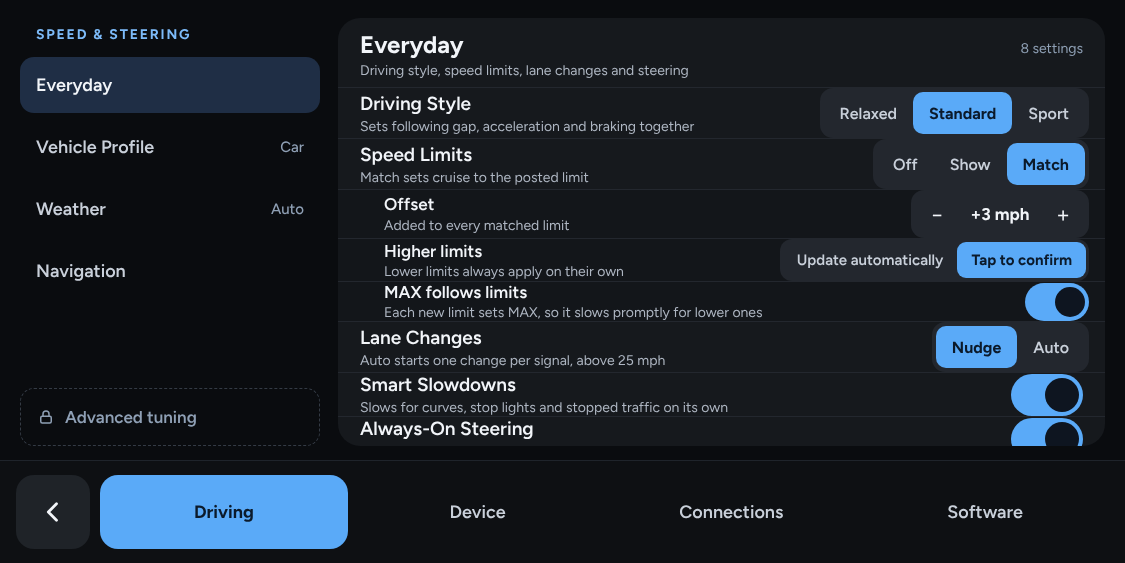
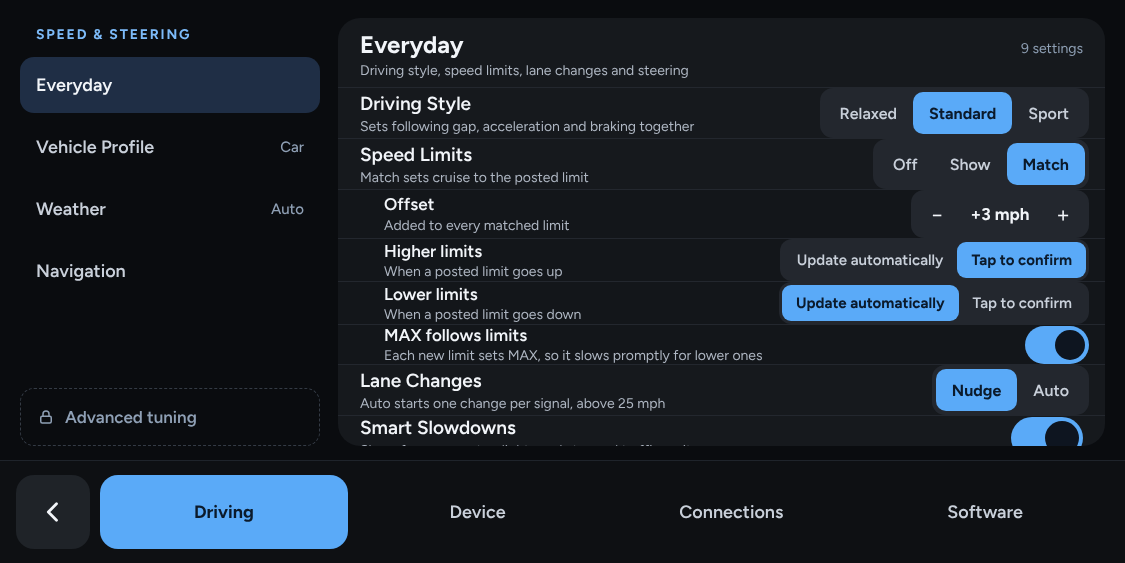
Speed limits: ask for lower limits too, if set
Lower limits joins Higher limits under Match, each Update automatically
or Tap to confirm (StarPilot's Confirm Higher and Confirm Lower). The
new-limit card offers lower limits as Slow down to. Lower limits still
apply on their own by default.

Claude-Session: https://claude.ai/code/session_01R4pPc2hcx88Dbjjec1p8WC

Changed region(s): [[0.3111, 0.4529, 0.9644, 0.7851]]

diff --git a/selfdrive/ui/tandem/design/driving.html b/selfdrive/ui/tandem/design/driving.html
@@ -31,7 +31,7 @@ a{color:#5AAAF8}a:hover{color:#8CC4FA}
     <div style="flex-grow: 1; min-width: 0; background: #16191D; border-radius: 22px; display: flex; flex-direction: column; overflow: hidden;">
       <div style="padding: 12px 22px 8px; border-bottom: 1px solid #23272E; display: flex; align-items: baseline; justify-content: space-between;">
         <div style="display: flex; flex-direction: column; gap: 3px;"><h2 style="margin: 0; font-size: 24px; font-weight: 700;">Everyday</h2><span style="font-size: 14px; color: #AEB6C2;">Driving style, speed limits, lane changes and steering</span></div>
-        <span style="font-size: 14px; color: #8FA0B5;">8 settings</span>
+        <span style="font-size: 14px; color: #8FA0B5;">9 settings</span>
       </div>
       <div style="display: flex; align-items: center; gap: 16px; padding: 0 16px 0 22px; height: 54px; border-bottom: 1px solid #23272E;">
         <div style="flex-grow: 1; display: flex; flex-direction: column; gap: 3px; min-width: 0;">
@@ -69,11 +69,21 @@ a{color:#5AAAF8}a:hover{color:#8CC4FA}
       <div style="display: flex; align-items: center; gap: 16px; padding: 0 16px 0 46px; height: 48px; border-bottom: 1px solid #23272E; background: #13161A;">
         <div style="flex-grow: 1; display: flex; flex-direction: column; gap: 2px; min-width: 0;">
           <span style="font-size: 17px; font-weight: 600;">Higher limits</span>
-          <span style="font-size: 14px; color: #AEB6C2;">Lower limits always apply on their own</span>
+          <span style="font-size: 14px; color: #AEB6C2;">When a posted limit goes up</span>
         </div>
         <div role="radiogroup" aria-label="Higher limits" style="display: flex; background: #23272E; border-radius: 12px; padding: 3px;">
           <button type="button" role="radio" aria-checked="false" style="font-family: inherit; border: 0; background: transparent; color: #C9D0DA; height: 36px; padding: 0 14px; border-radius: 9px; font-size: 15px; font-weight: 600;">Update automatically</button>
           <button type="button" role="radio" aria-checked="true" style="font-family: inherit; border: 0; background: #5AAAF8; color: #0B1A2B; height: 36px; padding: 0 14px; border-radius: 9px; font-size: 15px; font-weight: 700;">Tap to confirm</button>
+        </div>
+      </div>
+      <div style="display: flex; align-items: center; gap: 16px; padding: 0 16px 0 46px; height: 48px; border-bottom: 1px solid #23272E; background: #13161A;">
+        <div style="flex-grow: 1; display: flex; flex-direction: column; gap: 2px; min-width: 0;">
+          <span style="font-size: 17px; font-weight: 600;">Lower limits</span>
+          <span style="font-size: 14px; color: #AEB6C2;">When a posted limit goes down</span>
+        </div>
+        <div role="radiogroup" aria-label="Lower limits" style="display: flex; background: #23272E; border-radius: 12px; padding: 3px;">
+          <button type="button" role="radio" aria-checked="true" style="font-family: inherit; border: 0; background: #5AAAF8; color: #0B1A2B; height: 36px; padding: 0 14px; border-radius: 9px; font-size: 15px; font-weight: 700;">Update automatically</button>
+          <button type="button" role="radio" aria-checked="false" style="font-family: inherit; border: 0; background: transparent; color: #C9D0DA; height: 36px; padding: 0 14px; border-radius: 9px; font-size: 15px; font-weight: 600;">Tap to confirm</button>
         </div>
       </div>
       <div style="display: flex; align-items: center; gap: 16px; padding: 0 16px 0 46px; height: 48px; border-bottom: 1px solid #23272E; background: #13161A;">

diff --git a/selfdrive/ui/tandem/design/confirmlimit.html b/selfdrive/ui/tandem/design/confirmlimit.html
@@ -62,7 +62,7 @@ a{color:#7DBBF9}a:hover{color:#A9D3FB}
         </div>
         <button type="button" aria-label="Raise max speed" style="font-family: inherit; width: 52px; height: 62px; border: 0; background: transparent; color: #F2F5F9; font-size: 28px;">+</button>
       </div>
-      <span style="flex-grow: 1; font-size: 15px; color: #8FA0B5; padding-left: 8px;">Lower limits apply without asking. Resume on the wheel also matches.</span>
+      <span style="flex-grow: 1; font-size: 15px; color: #8FA0B5; padding-left: 8px;">Asks for higher or lower limits, as set in Speed Limits. A lower one asks “Slow down to 48 mph?”. Resume on the wheel also matches.</span>
       <button type="button" aria-label="Disengage" style="width: 74px; height: 74px; border-radius: 18px; border: 0; background: #1F9A55; display: flex; align-items: center; justify-content: center;"><svg width="32" height="32" viewBox="0 0 24 24" fill="none" stroke="#FFFFFF" stroke-width="2.2" stroke-linecap="round" stroke-linejoin="round" aria-hidden="true"><circle cx="12" cy="12" r="9"></circle><circle cx="12" cy="12" r="2.5"></circle><path d="M3.5 10.5h6M14.5 10.5h6M12 14.5V21"></path></svg></button>
     </div>
   </div>

diff --git a/selfdrive/ui/tandem/settings/speed_steering.py b/selfdrive/ui/tandem/settings/speed_steering.py
@@ -11,7 +11,7 @@ from openpilot.selfdrive.ui.tandem.settings.store import SettingsStore
 
 STYLES = ["Relaxed", "Standard", "Sport"]
 SPEED_LIMITS = ["Off", "Show", "Match"]
-HIGHER_LIMITS = ["Update automatically", "Tap to confirm"]
+LIMIT_CHANGES = ["Update automatically", "Tap to confirm"]
 LANE_CHANGES = ["Nudge", "Auto"]
 
 # Driving Style -> (LongitudinalPersonality, AccelerationProfile, DecelerationProfile). Standard is StarPilot's default.
@@ -75,16 +75,26 @@ class SpeedSteering:
   def lane_change_speed(self) -> int:
     return round(self._store.get_float("MinimumLaneChangeSpeed"))
 
+  def _asks(self, key: str) -> int:
+    return 1 if self._store.get_bool("SLCConfirmation") and self._store.get_bool(key) else 0
+
+  def _set_asks(self, higher: bool, lower: bool) -> None:
+    """StarPilot's Confirm New Limits is on while either direction asks; Confirm Higher and Confirm Lower say which."""
+    self._store.write({"SLCConfirmation": higher or lower, "SLCConfirmationHigher": higher, "SLCConfirmationLower": lower})
+
   @property
   def higher_limits(self) -> int:
-    return 1 if self._store.get_bool("SLCConfirmation") else 0
+    return self._asks("SLCConfirmationHigher")
 
   def set_higher_limits(self, index: int) -> None:
-    confirm = index == 1
-    values: dict[str, bool | int | float] = {"SLCConfirmation": confirm}
-    if confirm:
-      values |= {"SLCConfirmationHigher": True, "SLCConfirmationLower": False}
-    self._store.write(values)
+    self._set_asks(index == 1, bool(self.lower_limits))
+
+  @property
+  def lower_limits(self) -> int:
+    return self._asks("SLCConfirmationLower")
+
+  def set_lower_limits(self, index: int) -> None:
+    self._set_asks(bool(self.higher_limits), index == 1)
 
   @property
   def max_follows(self) -> bool:
@@ -133,12 +143,15 @@ def everyday_panel(model: SpeedSteering) -> ListPanel:
   offset = SettingRow("Offset", "Added to every matched limit", indent=True,
                       control=Stepper(lambda: model.offset, model.set_offset, 0, OFFSET_MAX,
                                       fmt=lambda v: f"+{v:g} {model.unit}", value_width=T.px(104)))
-  higher = SettingRow("Higher limits", "Lower limits always apply on their own", indent=True,
-                      control=Segmented(HIGHER_LIMITS, lambda: model.higher_limits, model.set_higher_limits,
+  higher = SettingRow("Higher limits", "When a posted limit goes up", indent=True,
+                      control=Segmented(LIMIT_CHANGES, lambda: model.higher_limits, model.set_higher_limits,
                                         height=T.px(42), font_size=T.font_px(15)))
+  lower = SettingRow("Lower limits", "When a posted limit goes down", indent=True,
+                     control=Segmented(LIMIT_CHANGES, lambda: model.lower_limits, model.set_lower_limits,
+                                       height=T.px(42), font_size=T.font_px(15)))
   follows = SettingRow("MAX follows limits", "Each new limit sets MAX, so it slows promptly for lower ones", indent=True,
                        control=Switch(lambda: model.max_follows, model.set_max_follows))
-  for row in (offset, higher, follows):
+  for row in (offset, higher, lower, follows):
     row.set_visible(lambda: model.matching)
 
   rows = [
@@ -147,6 +160,7 @@ def everyday_panel(model: SpeedSteering) -> ListPanel:
                Segmented(SPEED_LIMITS, lambda: model.speed_limits, model.set_speed_limits)),
     offset,
     higher,
+    lower,
     follows,
     SettingRow("Lane Changes", lambda: f"Auto starts one change per signal, above {model.lane_change_speed} {model.unit}",
                Segmented(LANE_CHANGES, lambda: model.lane_changes, model.set_lane_changes)),

diff --git a/selfdrive/ui/tandem/onroad/layers.py b/selfdrive/ui/tandem/onroad/layers.py
@@ -328,13 +328,14 @@ class LimitOffer:
   seconds_left: float
   total: float = 30.0   # how long the offer lasts, for the countdown bar
   vienna: bool = False  # the round sign used outside the US
+  lower: bool = False   # below the limit in use: Slow down to, rather than Speed up to
 
 
 VIENNA_RED = rl.Color(0xD9, 0x43, 0x4F, 255)
 
 
 class LimitCard(Component):
-  """Asks before speeding up to a higher limit; lower limits never ask. It sits over StarPilot's speed limit sign, top left,
+  """Asks before matching a new limit, higher or lower, when Speed Limits says to ask for that direction. It sits over StarPilot's speed limit sign, top left,
   with the new limit's sign in it, and a bar that drains until the offer is ignored."""
   grow_touch_target = False
   WIDTH, PAD = T.px(360), T.px(12)   # the pad puts the card's sign exactly where the plain sign sits
@@ -368,7 +369,8 @@ class LimitCard(Component):
     lines = [draw.line_height(T.font_px(22)), draw.line_height(T.font_px(16)), draw.line_height(T.font_px(13))]
     title, question, source = column(place(text, text.width, sum(lines) + T.px(8)), lines, T.px(4))
     draw.text(title, f"New limit {offer.limit:.0f}", T.font_px(22), T.TEXT, T.FONT_EXTRABOLD)
-    draw.text(question, f"Speed up to {offer.target:.0f} {offer.unit}?", T.font_px(16), T.TEXT_SECONDARY)
+    verb = "Slow down" if offer.lower else "Speed up"
+    draw.text(question, f"{verb} to {offer.target:.0f} {offer.unit}?", T.font_px(16), T.TEXT_SECONDARY)
     draw.text(source, f"From {offer.source.lower() or 'map'} · ignored in {max(0, math.ceil(offer.seconds_left))} s", T.font_px(13),
               T.TEXT_MUTED)
     ignore, match = row(buttons, [FILL, FILL], T.px(10))

diff --git a/selfdrive/ui/tandem/tests/test_settings.py b/selfdrive/ui/tandem/tests/test_settings.py
@@ -122,6 +122,19 @@ def test_tap_to_confirm_asks_only_for_higher_limits():
   assert not cache.values["SLCConfirmation"] and model.higher_limits == 0
 
 
+def test_higher_and_lower_limits_ask_separately():
+  model, cache, _ = _model()
+  model.set_lower_limits(1)
+  assert cache.values["SLCConfirmation"] and cache.values["SLCConfirmationLower"] and not cache.values["SLCConfirmationHigher"]
+  assert (model.higher_limits, model.lower_limits) == (0, 1)
+  model.set_higher_limits(1)
+  assert (model.higher_limits, model.lower_limits) == (1, 1)
+  model.set_lower_limits(0)
+  assert cache.values["SLCConfirmation"] and (model.higher_limits, model.lower_limits) == (1, 0)
+  model.set_higher_limits(0)
+  assert not cache.values["SLCConfirmation"] and (model.higher_limits, model.lower_limits) == (0, 0)
+
+
 def test_max_follows_limits_is_its_own_switch():
   model, cache, _ = _model()
   model.set_max_follows(True)
@@ -976,7 +989,7 @@ def test_reset_settings_applies_essentials_with_one_signal():
   assert speed.style == 1 and speed.matching and speed.offset == 3 and speed.higher_limits == 1 and speed.lane_changes == 0
   assert not DEVELOPER_VIEW.is_on(store) and cache.values["GreenLightAlert"] and not cache.values["HolidayThemes"]
   assert cache.values["Compass"]   # the heading beside the street name in the bar
-  assert speed.max_follows
+  assert speed.max_follows and speed.lower_limits == 0
 
 
 def test_maps_download_waits_for_parked_online_and_a_selection():

diff --git a/selfdrive/ui/tandem/tests/test_limit_offers.py b/selfdrive/ui/tandem/tests/test_limit_offers.py
@@ -6,7 +6,7 @@ from cereal import custom
 
 from openpilot.common.constants import CV
 from openpilot.selfdrive.ui.tandem.onroad import view as onroad
-from openpilot.selfdrive.ui.tandem.onroad.limits import LimitOfferState
+from openpilot.selfdrive.ui.tandem.onroad.limits import LimitFollower, LimitOfferState
 from openpilot.selfdrive.ui.tandem.onroad.status import ChipStack, Snapshot
 
 
@@ -27,6 +27,7 @@ def limit_view(monkeypatch):
   view = onroad.EssentialsOnroadView.__new__(onroad.EssentialsOnroadView)
   view._closed = True  # state-only view: no camera or GPU resources to clean up
   view._limit_offer = LimitOfferState()
+  view._follower = LimitFollower()
 
   def update(current=55, pending=65, source="None"):
     plan.slcSpeedLimit = current * CV.MPH_TO_MS
@@ -59,6 +60,13 @@ def test_an_intervening_limit_up_or_down_allows_the_ignored_limit_again(limit_vi
   view._ignore_limit()
   update(current=current, pending=pending, source=source)
   assert update().limit == pytest.approx(65)
+
+
+def test_a_lower_limit_asks_to_slow_down(limit_view):
+  _, update, _, _ = limit_view
+  offer = update(current=65, pending=55)
+  assert offer.limit == pytest.approx(55) and offer.lower
+  assert not update(current=55, pending=65).lower
 
 
 def test_unit_changes_do_not_clear_a_dismissal(limit_view):

diff --git a/selfdrive/ui/tandem/onroad/view.py b/selfdrive/ui/tandem/onroad/view.py
@@ -556,12 +556,15 @@ class EssentialsOnroadView(StarPilotOnroadView):
     pending = pending_ms * conversion
     current = float(plan.slcSpeedLimit) * conversion
     since = self._limit_offer.since
-    if since is None or not (plan.speedLimitChanged and pending > current + 0.5) or self._limit_offer.ignored:
+    if since is None or not (plan.speedLimitChanged and abs(pending - current) > 0.5) or self._limit_offer.ignored:
       return None
+    # Lower or higher than the limit in use: the last one StarPilot adopted, as it compares (its target can lag).
+    adopted = self._follower.limit * conversion if self._follower.limit > 1 else current
     offset = float(plan.slcSpeedLimitOffset) * conversion
     return LimitOffer(pending, pending + offset, "km/h" if ui_state.is_metric else "mph",
                       str(plan.slcPresentedSpeedLimitSource or plan.slcSpeedLimitSource or "map"),
-                      CONFIRM_TIMEOUT - (now - since), CONFIRM_TIMEOUT, ui_state.ui_params.get_bool("UseVienna"))
+                      CONFIRM_TIMEOUT - (now - since), CONFIRM_TIMEOUT, ui_state.ui_params.get_bool("UseVienna"),
+                      lower=pending < adopted)
 
   def _offroad_transition(self) -> None:
     super()._offroad_transition()

diff --git a/selfdrive/ui/tandem/settings/search.py b/selfdrive/ui/tandem/settings/search.py
@@ -69,7 +69,8 @@ ENTRIES: list[Entry] = [
   Entry("Driving Style", "Sets following gap, acceleration and braking together", 0, S, 0, "personality relaxed standard sport following distance"),
   Entry("Speed Limits", "Match sets cruise to the posted limit", 0, S, 0, "slc speed limit controller"),
   Entry("Offset", "Added to every matched limit", 0, S, 0, "speed limit offset"),
-  Entry("Higher limits", "Lower limits always apply on their own", 0, S, 0, "confirm speed limit"),
+  Entry("Higher limits", "When a posted limit goes up", 0, S, 0, "confirm speed limit ask raise"),
+  Entry("Lower limits", "When a posted limit goes down", 0, S, 0, "confirm speed limit ask lower slow"),
   Entry("MAX follows limits", "Each new limit sets MAX, so it slows promptly for lower ones", 0, S, 0,
         "set speed cruise max follow speed limit lower slow down"),
   Entry("Lane Changes", "Nudge or Auto", 0, S, 0, "nudgeless lane change blinker signal"),

diff --git a/selfdrive/ui/tandem/settings/defaults.py b/selfdrive/ui/tandem/settings/defaults.py
@@ -26,6 +26,7 @@ def _apply(store: SettingsStore, boot_logos=None) -> None:
   speed.set_speed_limits(2)               # Match
   speed.set_offset(SPEED_LIMIT_OFFSET)
   speed.set_higher_limits(1)              # Tap to confirm
+  speed.set_lower_limits(0)               # Update automatically
   speed.set_max_follows(True)
   speed.set_lane_changes(0)               # Nudge
   speed.set_smart_slowdowns(True)

diff --git a/selfdrive/ui/tandem/README.md b/selfdrive/ui/tandem/README.md
@@ -169,7 +169,7 @@ These are reached from a row or button, never as a tab:
   - **Steering headroom arc:** replaces the torque bar and uses its estimate. It has three stages (under 60%, 60–85%, over 85% held for 0.5 s) and a faint preview of what the path needs 2.5 s ahead.
     - At limit, the lane lines turn orange, the border turns amber, and Help steer plays one soft warning chime through soundd. Help steer is drawn as a Warning alert card in the bar's place (the bar and chips hide, as for other alerts), with the arc above it. It uses the warning volume and steering-limit mute-speed settings. The warning clears below 80%, or when steering becomes inactive; existing alerts take priority. The small release margin prevents repeated chimes around 85%.
   - **MAX follows limits** (`TandemMaxFollowsLimit`, on by default, under Speed Limits › Match): when StarPilot adopts a new limit, MAX becomes it plus the offset, through the same `SLCForceCruiseSpeed` request the bar's − / + use (`onroad/limits.py` `LimitFollower`). A lower limit only lowers MAX and a higher one only raises it, so a higher MAX the driver set stays; a MAX set within a zone stays until the next limit. Without it StarPilot coasts down to a lower limit under an unchanged MAX (its SLC coast curve), which on Eco braking takes a minute or more; with MAX at the limit it slows as it does for a lower MAX. StarPilot still decides which limit applies and when.
-  - **New-limit card:** asks before matching a higher limit. Match sends StarPilot's `SpeedLimitAccepted`. Ignore suppresses consecutive offers for that same limit, including after an offer expires or its source briefly disappears. An intervening higher or lower posted limit, or a new drive, allows it again.
+  - **New-limit card:** asks before matching a new limit when Speed Limits says to ask for that direction (Higher limits and Lower limits, StarPilot's `SLCConfirmationHigher` and `SLCConfirmationLower`; lower limits apply on their own by default). A higher one asks "Speed up to", a lower one "Slow down to". Match sends StarPilot's `SpeedLimitAccepted`. Ignore suppresses consecutive offers for that same limit, including after an offer expires or its source briefly disappears. An intervening higher or lower posted limit, or a new drive, allows it again.
   - **Speed, sign and turn card:** StarPilot still decides when each shows (its HUD's speed with the hide-speed rule, its speed card's posted limit, its turn card's route data); they're drawn as in the mocks. The sign stays top left, with the turn card popping up below it while navigating; while the new-limit card asks it takes the sign's place, and the turn card stays below it. The compass above the speed isn't drawn.
   - **Turn signal:** two green chevrons in the speed pill on the signalling side, the brighter one stepping outward. It replaces StarPilot's signal animations, so Display has no animation picker.
   - **Removed:** the driving personality button, the experimental-mode wheel, the favorites menu (the lower-left gesture), the picture-in-picture side camera (a Galaxy developer feature), the stopped timer, and the paused and weather badges, which the chips replace.

diff --git a/RELEASES.md b/RELEASES.md
@@ -7,6 +7,7 @@ Tandem 2026.11.01
   * Tuner Mode for fine tuning; Developer View and Lead Insights as one switch each
 * Driving screen: the speed, sign and a bar with Menu, MAX, the street and Engage
   * MAX follows each new speed limit, so the car slows promptly when the limit drops
+  * Choose whether higher and lower speed limits apply on their own or ask first
   * Status chips say why the car is slowing, stopping or paused
   * The steering arc warns before steering runs out, with Help steer at the limit
   * Alerts in three levels: info, warning and critical
